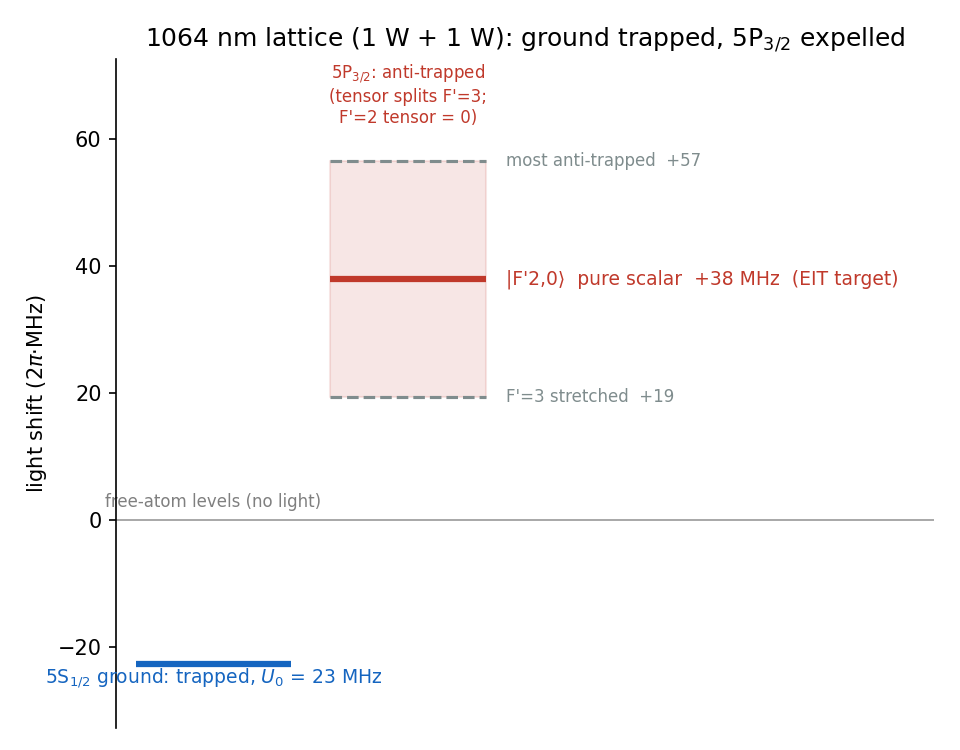
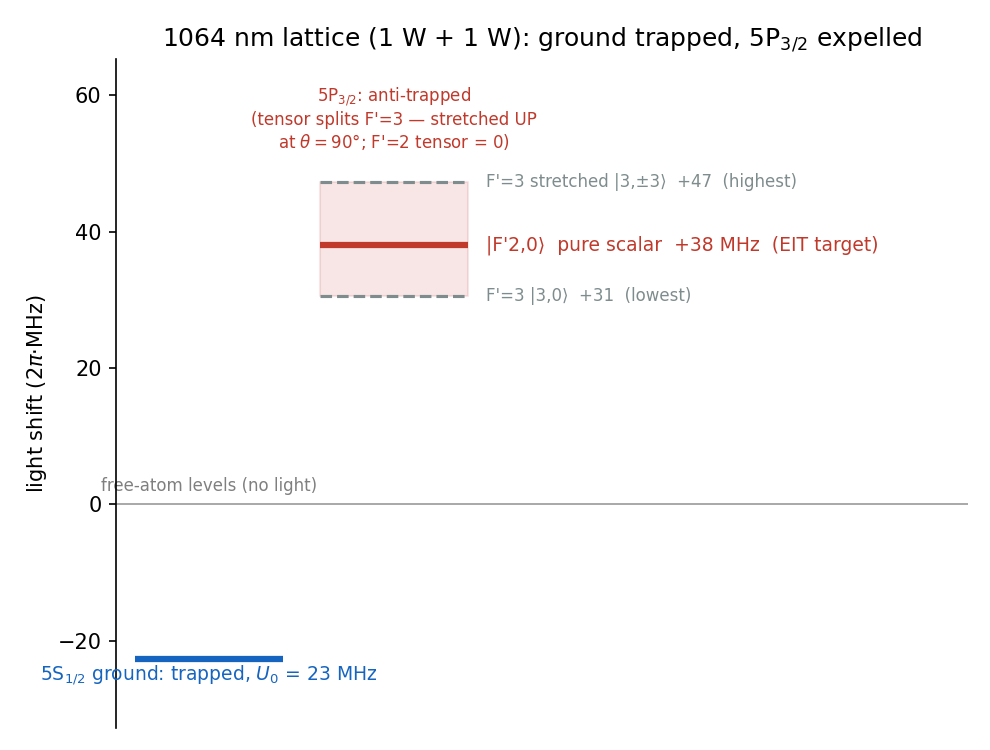
fix tensor-shift sign and show the Stark-shifted manifold in §6
The §1 text and the stark_manifold figure quoted the theta=0 (pol||B) ordering
(stretched |3,±3> lowest at +19, "+57"), but the real trap is the theta=90
transverse lattice, where the tensor sign flips: the stretched |3,±3> is the
HIGHEST at +47 and |3,0> the lowest at +30. Corrected both, and noted theta=0
(the stark_validate.py check case) inverts the ordering.

§6 level_scheme.py is rebuilt to SHOW the 1064 shifts (wired to stark.py, theta=90),
like the other scheme figures: F'2 flat at +38 (tensor-null, the clean target),
F'1 fanning +33/+48, F'3 fanning with the stretched state highest; grey bare/scalar
reference lines make the shift visible; the four tones drawn to scale with computed
detunings. Also fixed a carried-over label bug (the box printed absolute-frame
values, "+-124", instead of the light shifts +33/+48, +47/+30). README §1/§6 text
and captions updated to match.

diff --git a/02_multilevel/level_scheme.py b/02_multilevel/level_scheme.py
@@ -1,107 +1,206 @@
 """
-level_scheme.py -- the 24-level 87Rb D2 scheme with the four tones the multilevel solve uses:
-control + probe (the Lambda to |F'2,0>) and the two off-resonant sigma repumpers (the leftover
-comb tones).  Run:  python level_scheme.py     (writes level_scheme.png next to this file)
+level_scheme.py -- the four delivered tones of the single-EOM chain, drawn on the 1064-shifted
+87Rb 5P3/2 manifold.  Run:  python level_scheme.py     (writes level_scheme.png next to this file)
 
-The hyperfine spacings are atomic data (Steck); the figure is a schematic of the tone placement,
-not a Stark calculation (for the 1064 shifts see 01_three_level/stark.py and the README).
+Wired to stark.py / config.py: NO hand-typed light shifts.  The figure's point is that |F'2,0> is a
+PURE-SCALAR target -- F'=2 is tensor-NULL (the Wigner 6j {2 2 2; 3/2 3/2 3/2} = 0), so every F'=2 m'
+sits at the same +38, while F'=1 and F'=3 FAN OUT under the tensor shift at the real theta=90 trap.
+
+Drawing conventions, made literal so they can be checked by eye:
+  * sigma+ arrows step m -> m+1 ;  sigma- arrows step m -> m-1   (Delta m = +-1 in the drawing).
+  * Detunings are COMPUTED (printed below) and labelled against the nearest dipole-ALLOWED line;
+    dF=+-2 lines (F1->F'3, F2->F'0) are excluded -- closer, but forbidden.
+  * Every tone is drawn at its true level-frame height (to scale); only the 6.835 GHz ground gap is
+    compressed (broken axis).  All frequencies are 2*pi*MHz.
 """
 import os
 import numpy as np
 import matplotlib
 matplotlib.use("Agg")
 import matplotlib.pyplot as plt
-from matplotlib.patches import FancyArrowPatch, FancyBboxPatch
+from matplotlib.patches import FancyArrowPatch
+from matplotlib.lines import Line2D
+import stark
+import config as c
 
 HERE = os.path.dirname(os.path.abspath(__file__))
-BLUE, RED, GREY, GREEN, ORANGE = "#1565c0", "#c0392b", "#7f8c8d", "#2e7d32", "#e67e22"
+plt.rcParams.update({"font.size": 11, "font.family": "DejaVu Sans"})
+
+# --- 1064 light shifts straight from stark.py (theta = the real transverse-lattice angle) ---
+TH     = c.theta_trap
+SCALAR = stark.shift(c.alpha0_5P32)        # +38.0 common 5P3/2 scalar (every F',m')
+U0     = -stark.shift(c.alpha0_5S)         # +22.7 ground down-shift (F-independent)
+# bare 87Rb 5P3/2 hyperfine vs F'=2 (Steck) -- atomic data, not a light shift
+BARE   = {0: -229.17, 1: -156.95, 2: 0.0, 3: 266.65}
+def yE(Fp, mp): return BARE[Fp] + SCALAR + stark.stark_tensor(Fp, mp, TH)   # in-trap level
+em = {0: [0], 1: [-1, 0, 1], 2: [-2, -1, 0, 1, 2], 3: [-3, -2, -1, 0, 1, 2, 3]}
+gm = {1: [-1, 0, 1], 2: [-2, -1, 0, 1, 2]}
+
+DELTA = c.Delta                            # +45, single-photon detuning blue of |F'2,0>
+twofA = c.twofA                            # 400, tag-AOM double pass
+yG2, yG1 = -470.0, -550.0                   # ground rows (schematic; 6.835 GHz is compressed)
+
+# --- tone positions in the level frame (a tone "at P" is resonant with a level at height P) ---
+# probe & control sit DELTA above |F'2,0>; the comb repumpers are +-2fA from them.
+# The tag DOWN-shifts the retro (retro = forward - 2f_A), so rep1 is UP from probe and rep2 is DOWN.
+P_LAMBDA = yE(2, 0) + DELTA
+P_rep1   = P_LAMBDA + twofA                 # forward +1 EOM sideband (probe + 2fA)
+P_rep2   = P_LAMBDA - twofA                 # retro carrier          (control - 2fA)
+
+# --- nearest dipole-ALLOWED line to a tone, for honest detuning labels ----------------------
+ALLOWED = {1: (0, 1, 2), 2: (1, 2, 3)}      # F -> F' ; dF=+-2 (F1->F'3, F2->F'0) forbidden
+def ctr(Fp): return float(np.mean([yE(Fp, mp) for mp in em[Fp]]))   # manifold centre
+def nearest_allowed(P, Fg):
+    Fp = min(ALLOWED[Fg], key=lambda f: abs(P - ctr(f)))
+    return Fp, P - ctr(Fp)                  # (F', signed detuning to its centre)
+
+C = dict(control="#1565c0", probe="#2e8b3d", rep1="#e8730c", rep2="#d32f2f")
+GB, GS = "#c4c4c4", "#9a9a9a"               # ghost colours: bare (dotted), scalar-only (dashed)
 
 
 def level_scheme():
-    """control + probe (the Lambda to |F'2,0>) and the two sigma repumpers on F->F'1/F'2."""
-    DF = {0: -229.16, 1: -156.94, 2: 0.0, 3: 266.65}       # 5P3/2 hyperfine, from |F'2> (MHz)
-    MP = {0: [0], 1: [-1, 0, 1], 2: [-2, -1, 0, 1, 2], 3: [-3, -2, -1, 0, 1, 2, 3]}
-    DIV, YC = 235.0, 5.6
-    yE = lambda Fp: YC + DF[Fp] / DIV
-    YF2, YF1, LW = 1.15, 0.0, 0.30
+    fig, ax = plt.subplots(figsize=(16.6, 12.0))
+    HW = 0.30
+    def lvl(m, y, col, lw, z=2):
+        ax.plot([m - HW, m + HW], [y, y], color=col, lw=lw, solid_capstyle="round", zorder=z)
+    def beam(p0, p1, col, lw=2.8, dashed=False, msc=16):
+        ax.add_patch(FancyArrowPatch(p0, p1, arrowstyle="-|>", mutation_scale=msc, color=col,
+                     lw=lw, zorder=5, shrinkA=6, shrinkB=5, linestyle="--" if dashed else "-"))
+    def tone(m, y, col, w=0.40):            # an off-resonant delivered tone (dashed marker)
+        ax.plot([m - w, m + w], [y, y], ls=(0, (4, 2)), color=col, lw=2.1, zorder=4)
 
-    fig, ax = plt.subplots(figsize=(11.2, 8.4))
-    # excited manifold (|F'2,0>, the EIT target, emphasized; the rest are off-resonant)
-    for Fp, ms in MP.items():
+    # ghost reference lines: bare (dotted) + scalar-only (dashed). For F'=0,2 scalar-only == full.
+    for Fp, ms in em.items():
+        x0, x1 = min(ms) - 0.42, max(ms) + 0.42
+        ax.plot([x0, x1], [BARE[Fp]] * 2, ls=(0, (1, 3)), color=GB, lw=1.0, zorder=1)
+        if Fp not in (0, 2):
+            ax.plot([x0, x1], [BARE[Fp] + SCALAR] * 2, ls=(0, (6, 3)), color=GS, lw=0.9, zorder=1)
+    for F, ms in gm.items():
+        x0, x1 = min(ms) - 0.42, max(ms) + 0.42
+        ax.plot([x0, x1], [(yG2 if F == 2 else yG1) + U0] * 2, ls=(0, (1, 3)), color=GB, lw=1.0, zorder=1)
+
+    # solid in-trap levels (|F'2,0> highlighted) ----
+    for Fp, ms in em.items():
+        for mp in ms:
+            hot = (Fp == 2 and mp == 0)
+            lvl(mp, yE(Fp, mp), "#c62828" if hot else "#9aa0aa", 4.4 if hot else 2.2, 4 if hot else 2)
+    for F, ms in gm.items():
+        yg = yG2 if F == 2 else yG1
         for m in ms:
-            eit = (Fp == 2 and m == 0)
-            ax.plot([m - LW, m + LW], [yE(Fp), yE(Fp)], color=(RED if eit else "#9aa7b4"),
-                    lw=3.0 if eit else 1.5, solid_capstyle="round", zorder=3)
-        ax.text(3.6, yE(Fp), r"$F'=%d$" % Fp, va="center", ha="left", fontsize=12, color="#444")
-    ax.annotate(r"$|F'2,0\rangle$  pure scalar  +38 MHz  (EIT target)",
-                xy=(0, yE(2)), xytext=(1.15, yE(2) + 0.42), fontsize=10.5, color=RED,
+            lvl(m, yg, "#2b2b2b", 2.6)
+    ax.plot(-1, yG1, "o", color=C["probe"], ms=11, zorder=6, mec="white", mew=1.1)
+    ax.plot(+1, yG2, "o", color=C["control"], ms=11, zorder=6, mec="white", mew=1.1)
+
+    # the EIT Lambda (resonant, solid; both legs land on the virtual level DELTA above |F'2,0>) ----
+    ax.plot([-0.45, 0.45], [P_LAMBDA] * 2, ls=(0, (4, 3)), color="#777", lw=1.3, zorder=3)
+    beam((-1, yG1), (-0.05, P_LAMBDA), C["probe"], 3.0)    # probe   sigma+  |1,-1> -> |F'2,0>
+    beam((+1, yG2), (0.05, P_LAMBDA), C["control"], 3.0)   # control sigma-  |2,+1> -> |F'2,0>
+
+    # the two off-resonant comb repumpers (dashed) ----
+    tone(0, P_rep1, C["rep1"]); beam((+1, yG1), (0, P_rep1 - 9), C["rep1"], 2.3, dashed=True)   # rep1 s- |1,+1>->F'2
+    tone(0, P_rep2, C["rep2"]); beam((-1, yG2), (0, P_rep2 + 9), C["rep2"], 2.3, dashed=True)   # rep2 s+ |2,-1>->F'1
+    F1, d1 = nearest_allowed(P_rep1, 1)
+    F2, d2 = nearest_allowed(P_rep2, 2)
+    ax.text(0, P_rep1 + 14, "rep1 $\\sigma^-$  %+.0f from F'%d  (fwd EOM sideband)" % (d1, F1),
+            color=C["rep1"], fontsize=8.8, ha="center", va="bottom", fontweight="bold")
+    ax.text(0.55, P_rep2, "rep2 $\\sigma^+$  %+.0f from F'%d  (retro carrier)" % (d2, F2),
+            color=C["rep2"], fontsize=8.8, ha="left", va="center", fontweight="bold")
+
+    # detuning + shift brackets ----
+    ax.annotate("", xy=(0.62, yE(2, 0)), xytext=(0.62, P_LAMBDA), arrowprops=dict(arrowstyle="<->", color="#333", lw=1.4))
+    ax.text(0.72, (yE(2, 0) + P_LAMBDA) / 2, r"$\Delta=+%.0f$" % DELTA, color="#111", fontsize=10.5,
+            va="center", ha="left", fontweight="bold")
+    ax.annotate("", xy=(-1.95, 0.0), xytext=(-1.95, SCALAR), arrowprops=dict(arrowstyle="<->", color="#555", lw=1.2))
+    ax.text(-2.05, SCALAR / 2, "+%.0f\nscalar" % SCALAR, color="#444", fontsize=8.2, va="center", ha="right", linespacing=1.15)
+    # the F'=2 tensor-null statement -- the message of the figure
+    ax.annotate("$|F'2,0\\rangle$ at $+%.0f$ (pure scalar)\nF'=2 tensor-NULL: every m' degenerate"
+                % SCALAR, xy=(2.05, yE(2, 2)), xytext=(3.7, yE(2, 0) + 86), color="#c62828",
+                fontsize=9.6, ha="left", va="center", arrowprops=dict(arrowstyle="-", color="#c62828", lw=1.0))
+    # F'1 splits: |1,0> UP (+48), |1,+-1> DOWN (+33) at theta=90
+    ax.annotate("", xy=(-1.62, yE(1, -1)), xytext=(-1.62, yE(1, 0)), arrowprops=dict(arrowstyle="<->", color="#666", lw=1.1))
+    ax.text(-1.72, (yE(1, -1) + yE(1, 0)) / 2, "%.0f MHz\nF'1 tensor\nsplit" % (yE(1, 0) - yE(1, -1)),
+            color="#555", fontsize=7.6, va="center", ha="right", linespacing=1.15)
+    # F'3 splits: stretched |3,+-3> UP (+47, highest), |3,0> DOWN (+30, lowest) at theta=90
+    sl3hi, sl3lo = stark.stark_level(3, 3, TH), stark.stark_level(3, 0, TH)
+    ax.annotate("F'3 fans %.0f MHz: stretched\n$|3,\\pm3\\rangle$ highest ($+%.0f$), $|3,0\\rangle$\n"
+                "lowest ($+%.0f$) — tensor pushes\nstretched UP at the $\\theta{=}90°$ trap"
+                % (sl3hi - sl3lo, sl3hi, sl3lo), xy=(3.05, yE(3, 3)), xytext=(4.35, ctr(3) - 28),
+                color="#666", fontsize=8.2, ha="left", va="center",
                 arrowprops=dict(arrowstyle="-", color="#999", lw=0.8))
 
-    # ground manifold
-    for (F, y, ms) in [(2, YF2, range(-2, 3)), (1, YF1, range(-1, 2))]:
-        for m in ms:
-            ax.plot([m - LW, m + LW], [y, y], color="#111", lw=1.6, solid_capstyle="round", zorder=3)
-        ax.text(3.6, y, r"$F=%d$" % F, va="center", ha="left", fontsize=12, color="#444")
-    ax.plot(-1, YF1, "o", ms=12, color=GREEN, zorder=5)
-    ax.plot(+1, YF2, "o", ms=12, color=BLUE, zorder=5)
-    ax.text(-1, YF1 - 0.26, r"$|1,-1\rangle$", ha="center", va="top", fontsize=10, color=GREEN)
-    ax.text(+1, YF2 - 0.26, r"$|2,+1\rangle$", ha="center", va="top", fontsize=10, color=BLUE)
-    ax.annotate("", xy=(-3.15, YF2), xytext=(-3.15, YF1), arrowprops=dict(arrowstyle="<->", color="#aaa"))
-    ax.text(-3.3, (YF1 + YF2) / 2, "6.835 GHz", rotation=90, va="center", ha="right", fontsize=9, color="#888")
-    ax.text(-3.0, YF2 + 0.5, "(gaps not to scale)", rotation=90, va="bottom", ha="right", fontsize=7, color="#bbb")
+    # row labels, ground splitting, scale bar ----
+    for Fp in em:
+        ax.text(3.55, ctr(Fp), fr"$F'={Fp}$", va="center", ha="left", color="#666", fontsize=11)
+    ax.text(3.55, yG2, r"$F=2$", va="center", ha="left", color="#222", fontsize=12)
+    ax.text(3.55, yG1, r"$F=1$", va="center", ha="left", color="#222", fontsize=12)
+    ax.text(-1, yG1 - 26, r"$|1,-1\rangle$", color=C["probe"], ha="center", va="top", fontsize=10.5)
+    ax.text(1.12, yG2 - 26, r"$|2,+1\rangle$", color=C["control"], ha="center", va="top", fontsize=10.5)
+    ax.annotate("", xy=(-3.45, yG2), xytext=(-3.45, yG1), arrowprops=dict(arrowstyle="<->", color="#999", lw=1.3))
+    ax.text(-3.57, (yG1 + yG2) / 2, "6.835 GHz", rotation=90, va="center", ha="right", color="#777", fontsize=9)
+    ax.plot([-3.95, -3.95], [110, 160], color="#444", lw=2.4)
+    ax.text(-4.04, 135, "50 MHz", rotation=90, va="center", ha="right", color="#444", fontsize=8.4)
+    # broken-axis marks (the 6.835 GHz ground gap is the only compressed span) ----
+    ybrk = (P_rep2 + yG2) / 2
+    ax.text(-2.55, ybrk, "6.835 GHz  —  not to scale", color="#aaa", fontsize=8.4, ha="center", va="center", style="italic")
+    for dy in (-12, 12):
+        ax.plot([-4.18, -4.00], [ybrk + dy - 6, ybrk + dy + 6], color="#999", lw=1.4, clip_on=False)
 
-    # control + probe = the Lambda (solid); repumpers = off-resonant comb tones (dashed -> virtual level)
-    def beam(x0, y0, x1, y1, col, lab, lx, ly, ha="center", dashed=False, term=False):
-        ax.add_patch(FancyArrowPatch((x0, y0), (x1, y1), arrowstyle="-|>", mutation_scale=15,
-                     lw=2.2, color=col, zorder=4, shrinkA=8, shrinkB=6,
-                     linestyle="--" if dashed else "-"))
-        if term:
-            ax.plot([x1 - 0.33, x1 + 0.33], [y1, y1], color=col, lw=1.5, ls=(0, (3, 2)), zorder=4)
-        if lab:
-            ax.text(lx, ly, lab, color=col, fontsize=10.0, ha=ha, va="center", fontweight="bold")
-    beam(+1, YF2, 0, yE(2), BLUE, r"CONTROL $\sigma^-$" + "\nF2$\\to$F'2 (fwd)", 1.75, 3.3, "left")
-    beam(-1, YF1, 0, yE(2), GREEN, r"PROBE $\sigma^+$" + "\nF1$\\to$F'2 (retro)", -1.8, 3.3, "right")
-    # repump1 tone sits 178 MHz past F'3, but F=1->F'3 is dF=2 FORBIDDEN -> it drives F=1->F'2, 445 off
-    yr1 = yE(3) + 178.0 / DIV
-    beam(+1, YF1, 0.0, yr1, ORANGE, "", 0, 0, dashed=True, term=True)
-    ax.text(1.45, yr1, "repump1 = fwd EOM sideband\n$\\sigma^-$, probe$+$400; drives F1$\\to$F'2 (445 off)\n"
-            "(F1$\\not\\to$F'3: $\\Delta F{=}2$ forbidden)",
-            color=ORANGE, fontsize=8.2, ha="left", va="center", fontweight="bold")
-    # repump2 tone sits 126 MHz past F'0, but F=2->F'0 is dF=2 FORBIDDEN -> it drives F=2->F'1, 198 off
-    yr2 = yE(1) - 198.0 / DIV
-    beam(-2, YF2, -1.0, yr2, ORANGE, "", 0, 0, dashed=True, term=True)
-    ax.text(-2.78, yr2, "repump2 = retro carrier\n$\\sigma^+$, control$-$400\ndrives F2$\\to$F'1 (198 off)\n"
-            "(F2$\\not\\to$F'0: forbidden)",
-            color=ORANGE, fontsize=8.2, ha="center", va="center", fontweight="bold")
+    # beam legend ----
+    leg = [
+        Line2D([0], [0], color=C["control"], lw=3.0, label=r"control $\sigma^-$ · F2$\to$F'2 · $\Delta=+45$ above $|F'2,0\rangle$ · $\Omega/2\pi=8.8$"),
+        Line2D([0], [0], color=C["probe"], lw=3.0, label=r"probe $\sigma^+$ · F1$\to$F'2 · $\Delta=+45$ · $\Omega/2\pi=1.1$ ($\Omega_p/\Omega_c{=}0.12$)"),
+        Line2D([0], [0], color=C["rep1"], lw=2.3, ls="--", label=r"repump1 $\sigma^-$ · F1$\to$F'2 · fwd EOM sideband (probe$+2f_A$)"),
+        Line2D([0], [0], color=C["rep2"], lw=2.3, ls="--", label=r"repump2 $\sigma^+$ · F2$\to$F'1 · retro carrier (control$-2f_A$)"),
+    ]
+    bl = ax.legend(handles=leg, loc="upper left", bbox_to_anchor=(0.605, 0.998), frameon=True,
+                   fontsize=9.2, handlelength=2.4, borderpad=0.8, labelspacing=0.6,
+                   title="delivered tones — single seed + one EOM", title_fontsize=9.8)
+    ax.add_artist(bl)
 
-    # the Delta marker
-    ax.annotate("", xy=(0.4, yE(2)), xytext=(0.4, yE(2) + 0.45), arrowprops=dict(arrowstyle="<->", color="#444"))
-    ax.text(0.5, yE(2) + 0.24, r"$\Delta\approx45$ (blue)", fontsize=9.5, va="center", ha="left", color="#444")
+    # ghost-line key (the grey lines that make the Stark shift visible) ----
+    ghost = [Line2D([0], [0], ls=(0, (1, 3)), color=GB, lw=1.5, label="bare — no 1064 shift"),
+             Line2D([0], [0], ls=(0, (6, 3)), color=GS, lw=1.4, label="scalar only (+38, no tensor)"),
+             Line2D([0], [0], ls="-", color="#9aa0aa", lw=2.2, label="full = scalar + tensor (solid)")]
+    ax.legend(handles=ghost, loc="upper left", bbox_to_anchor=(0.002, 0.80), frameon=True,
+              fontsize=8.4, handlelength=2.6, borderpad=0.5, labelspacing=0.45,
+              title="grey reference lines", title_fontsize=8.7)
 
-    # bottom annotation boxes
-    b1 = ("Clock pair: both legs $g_F m_F=+\\frac{1}{2}$  $\\Rightarrow$  the dark state is\n"
-          "first-order $B$-insensitive at any field.")
-    ax.add_patch(FancyBboxPatch((-3.7, -1.85), 3.5, 0.95, boxstyle="round,pad=0.1",
-                 lw=1.1, edgecolor=GREEN, facecolor="#eafaf0", zorder=6))
-    ax.text(-1.95, -1.37, b1, fontsize=9, va="center", ha="center", color="#1b5e20", zorder=7)
-    b2 = ("ONE EOM ($f_{\\rm mod}{=}6.83{+}0.40{=}7.23$ GHz) $+$ one 200 MHz tag AOM ($2f_A{=}400$).\n"
-          "The repumpers are the leftover comb tones, deliberately OFF-resonant (slower;\n"
-          "raise their power to speed up): probe$-$control$=$6.83 GHz, repump1$=$probe$+$400,\n"
-          "repump2$=$probe$-$7.23 GHz.")
-    ax.add_patch(FancyBboxPatch((0.05, -2.15), 4.9, 1.25, boxstyle="round,pad=0.1",
-                 lw=1.1, edgecolor=ORANGE, facecolor="#fdf2e7", zorder=6))
-    ax.text(2.5, -1.52, b2, fontsize=8.3, va="center", ha="center", color="#9c4d0a", zorder=7)
+    # physics / delivery box ----
+    txt = ("$\\bf{single\\ EOM}$:  $f_{mod}=A_{HFS}+2f_A=6.835+0.400=7.235$ GHz;  $2f_A=400$ (tag $\\times2$).\n"
+           "Tag DOWN-shifts: retro $=$ forward $-$ 2f_A (the probe is the retro of the fwd $+1$).\n"
+           "The repumpers are leftover comb tones, deliberately OFF-resonant:\n"
+           "   rep1 = fwd $+1$ sideband (probe$+2f_A$) $\\to$ F1$\\to$F'2.\n"
+           "   rep2 = retro carrier (control$-2f_A$) $\\to$ F2$\\to$F'1.\n"
+           "Closer lines F'3 / F'0 are $\\Delta F=\\pm2$ dipole-FORBIDDEN $\\Rightarrow$ no coupling.\n"
+           "$\\bf{1064\\ light\\ shifts}$ ($\\theta=90°$, from stark.py): ground $-%.1f$ (both F);\n"
+           "   $|F'2,0\\rangle=+%.1f$ (6j-null, geometry-free); F'1 split $+%.0f$ ($|1,\\pm1\\rangle$) / $+%.0f$ ($|1,0\\rangle$);\n"
+           "   F'3 spread $+%.0f$ (stretched $|3,\\pm3\\rangle$, highest) $\\to+%.0f$ ($|3,0\\rangle$).  [all $2\\pi\\cdot$MHz]"
+           % (U0, SCALAR, stark.stark_level(1, -1, TH), stark.stark_level(1, 0, TH),
+              stark.stark_level(3, 3, TH), stark.stark_level(3, 0, TH)))
+    ax.text(4.30, -150, txt, fontsize=8.5, va="top", ha="left", linespacing=1.5,
+            bbox=dict(boxstyle="round,pad=0.7", fc="#f6f6f8", ec="#888", lw=1.0))
 
-    ax.set_xlim(-4.0, 5.3); ax.set_ylim(-2.25, 8.4)
-    ax.set_xlabel(r"$m_F$", fontsize=13); ax.set_xticks(range(-3, 4)); ax.set_yticks([])
-    for s in ("top", "right", "left"):
-        ax.spines[s].set_visible(False)
-    ax.set_title(r"$^{87}$Rb D2 clock-EIT scheme (24 levels): control, probe, and the two $\sigma$ repumpers",
-                 fontsize=13, pad=10)
+    ax.set_title(r"$^{87}$Rb D2 clock-EIT — the four delivered tones on the 1064-shifted 5P$_{3/2}$ manifold",
+                 fontsize=13.2, pad=12)
+    ax.set_xlabel("$m_F$", fontsize=12.5)
+    ax.set_xticks(range(-3, 4)); ax.set_xticklabels(range(-3, 4))
+    ax.set_xlim(-4.3, 10.0); ax.set_ylim(yG1 - 55, P_rep1 + 55)
+    ax.set_yticks([]); ax.tick_params(length=0)
+    for s in ax.spines.values():
+        s.set_visible(False)
     fig.tight_layout()
     fig.savefig(os.path.join(HERE, "level_scheme.png"), dpi=150, bbox_inches="tight")
     print("wrote level_scheme.png")
 
 
 if __name__ == "__main__":
+    # echo the computed tone positions + nearest allowed lines (the detuning check) ----
+    print("1064 (stark.py, theta=%.0f):  scalar %+.2f,  ground -%.2f" % (TH, SCALAR, U0))
+    print("|F'2,0> = %+.2f (tensor %.3f -> tensor-NULL, all F'=2 m' degenerate)"
+          % (yE(2, 0), stark.stark_tensor(2, 0, TH)))
+    print("F'3 (theta=90): stretched |3,+-3> = %+.1f (highest); |3,0> = %+.1f (lowest)"
+          % (yE(3, 3), yE(3, 0)))
+    for nm, P, Fg in [("probe/control", P_LAMBDA, 2), ("rep1 (comb)", P_rep1, 1), ("rep2 (comb)", P_rep2, 2)]:
+        Fp, d = nearest_allowed(P, Fg)
+        print("  %-14s P=%+7.1f   nearest allowed F'%d  (%+.0f from its centre)" % (nm, P, Fp, d))
     level_scheme()

diff --git a/01_three_level/plots.py b/01_three_level/plots.py
@@ -110,27 +110,29 @@ def cooling_curve(n_init=3.0, N=16):
 
 # ---------------------------------------------------------------- 3. Stark manifold
 def stark_manifold():
+    th = 90.0                                      # the REAL trap: transverse lattice (theta=90 deg)
     U0 = -stark.shift(c.alpha0_5S)                 # ground trap depth (down)
-    sca = stark.shift(c.alpha0_5P32)               # 5P scalar (up)
-    lo = stark.shift(c.alpha0_5P32 + c.alpha2_5P32)   # F'=3 stretched
-    hi = stark.shift(c.alpha0_5P32 - c.alpha2_5P32)   # most anti-trapped
+    sca = stark.stark_level(2, 0, th)              # F'2: pure scalar (tensor-null), any geometry
+    f3hi = stark.stark_level(3, 3, th)             # F'3 stretched |3,+-3> -> HIGHEST at theta=90
+    f3lo = stark.stark_level(3, 0, th)             # F'3 |3,0>            -> lowest at theta=90
 
-    fig, ax = plt.subplots(figsize=(6.4, 5.0))
+    fig, ax = plt.subplots(figsize=(6.6, 5.0))
     ax.axhline(0, color="k", lw=0.8, alpha=0.4)
     ax.text(0.5, 2, "free-atom levels (no light)", fontsize=8, color="k", alpha=0.5, ha="center")
     # ground
     ax.hlines(-U0, 0.1, 0.9, color=BLUE, lw=3)
     ax.text(0.5, -U0 - 3, f"5S$_{{1/2}}$ ground: trapped, $U_0$ = {U0:.0f} MHz", color=BLUE, ha="center", fontsize=9)
-    # excited manifold
-    ax.fill_between([1.1, 1.9], lo, hi, color=RED, alpha=0.12)
+    # excited manifold (F'3 band at the real theta=90 trap: stretched on top, |3,0> at the bottom)
+    ax.fill_between([1.1, 1.9], f3lo, f3hi, color=RED, alpha=0.12)
     ax.hlines(sca, 1.1, 1.9, color=RED, lw=3)
     ax.text(2.0, sca, f"|F'2,0⟩  pure scalar  +{sca:.0f} MHz  (EIT target)", color=RED, va="center", fontsize=9)
-    ax.hlines(lo, 1.1, 1.9, color=GREY, lw=1.5, ls="--")
-    ax.text(2.0, lo, f"F'=3 stretched  +{lo:.0f}", color=GREY, va="center", fontsize=8)
-    ax.hlines(hi, 1.1, 1.9, color=GREY, lw=1.5, ls="--")
-    ax.text(2.0, hi, f"most anti-trapped  +{hi:.0f}", color=GREY, va="center", fontsize=8)
-    ax.text(1.5, hi + 6, "5P$_{3/2}$: anti-trapped\n(tensor splits F'=3;\nF'=2 tensor = 0)", color=RED, ha="center", fontsize=8)
-    ax.set_xlim(0, 4.2); ax.set_ylim(-U0 - 10, hi + 16)
+    ax.hlines(f3hi, 1.1, 1.9, color=GREY, lw=1.5, ls="--")
+    ax.text(2.0, f3hi, f"F'=3 stretched |3,±3⟩  +{f3hi:.0f}  (highest)", color=GREY, va="center", fontsize=8)
+    ax.hlines(f3lo, 1.1, 1.9, color=GREY, lw=1.5, ls="--")
+    ax.text(2.0, f3lo, f"F'=3 |3,0⟩  +{f3lo:.0f}  (lowest)", color=GREY, va="center", fontsize=8)
+    ax.text(1.5, f3hi + 5, "5P$_{3/2}$: anti-trapped\n(tensor splits F'=3 — stretched UP\nat $\\theta{=}90°$; F'=2 tensor = 0)",
+            color=RED, ha="center", fontsize=8)
+    ax.set_xlim(0, 4.6); ax.set_ylim(-U0 - 10, f3hi + 18)
     ax.set_ylabel("light shift (2$\\pi$·MHz)")
     ax.set_title("1064 nm lattice (1 W + 1 W): ground trapped, 5P$_{3/2}$ expelled")
     ax.set_xticks([])